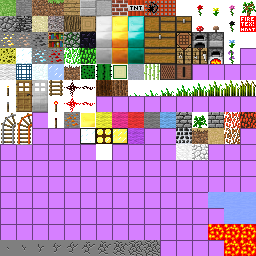
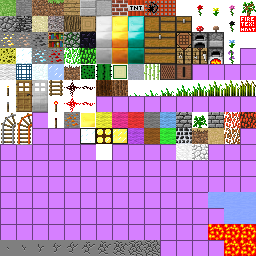
Added green & brown wool

Changed region(s): [[0.5625, 0.5, 0.6875, 0.5625]]

diff --git a/net/minecraft/src/RecipesCrafting.java b/net/minecraft/src/RecipesCrafting.java
@@ -13,6 +13,8 @@ public class RecipesCrafting {
 		var1.addRecipe(new ItemStack(Block.clothDarkGray), new Object[] {"#X", Character.valueOf('#'), Block.plantBlack, Character.valueOf('X'), Block.cloth});
 		var1.addRecipe(new ItemStack(Block.clothCyan), new Object[] {"#X", Character.valueOf('#'), Block.plantBlue, Character.valueOf('X'), Block.cloth});
 		var1.addRecipe(new ItemStack(Block.clothPurple), new Object[] {"#X", Character.valueOf('#'), Block.plantPurple, Character.valueOf('X'), Block.cloth});
+		var1.addRecipe(new ItemStack(Block.clothOrange), new Object[] {"#X", Character.valueOf('#'), Item.teaLeaves, Character.valueOf('X'), Block.cloth});
+		var1.addRecipe(new ItemStack(Block.clothGreen), new Object[] {"#X", Character.valueOf('#'), Block.cactus, Character.valueOf('X'), Block.cloth});
 		var1.addRecipe(new ItemStack(Block.minecartTrackPowered, 4), new Object[] {"# #", "#X#", "# #", Character.valueOf('#'), Item.ingotCopper, Character.valueOf('X'), Item.stick});
 		var1.addRecipe(new ItemStack(Block.brickStone, 4), new Object[] {"##","##", Character.valueOf('#'), Block.cobblestone});
 		var1.addRecipe(new ItemStack(Block.brickSmooth, 4), new Object[] {"##","##", Character.valueOf('#'), Block.stone});

diff --git a/net/minecraft/src/Block.java b/net/minecraft/src/Block.java
@@ -41,10 +41,10 @@ public class Block {
 	public static final Block sponge = (new BlockSponge(19)).setHardness(0.6F).setStepSound(soundGrassFootstep);
 	public static final Block glass = (new BlockGlass(20, 49, Material.glass, false)).setHardness(0.3F).setStepSound(soundGlassFootstep);
 	public static final Block clothRed = (new Block(21, 120, Material.cloth)).setHardness(0.8F).setStepSound(soundClothFootstep);
-	public static final Block clothOrange = null;
+	public static final Block clothOrange = (new Block(22, 121+16, Material.cloth)).setHardness(0.8F).setStepSound(soundClothFootstep);
 	public static final Block clothYellow = (new Block(23, 118, Material.cloth)).setHardness(0.8F).setStepSound(soundClothFootstep);
 	public static final Block clothChartreuse = null;
-	public static final Block clothGreen = null;
+	public static final Block clothGreen = (new Block(25, 121+17, Material.cloth)).setHardness(0.8F).setStepSound(soundClothFootstep);
 	public static final Block clothSpringGreen = null;
 	public static final Block clothCyan = (new Block(27, 122, Material.cloth)).setHardness(0.8F).setStepSound(soundClothFootstep);;
 	public static final Block clothCapri = null;
